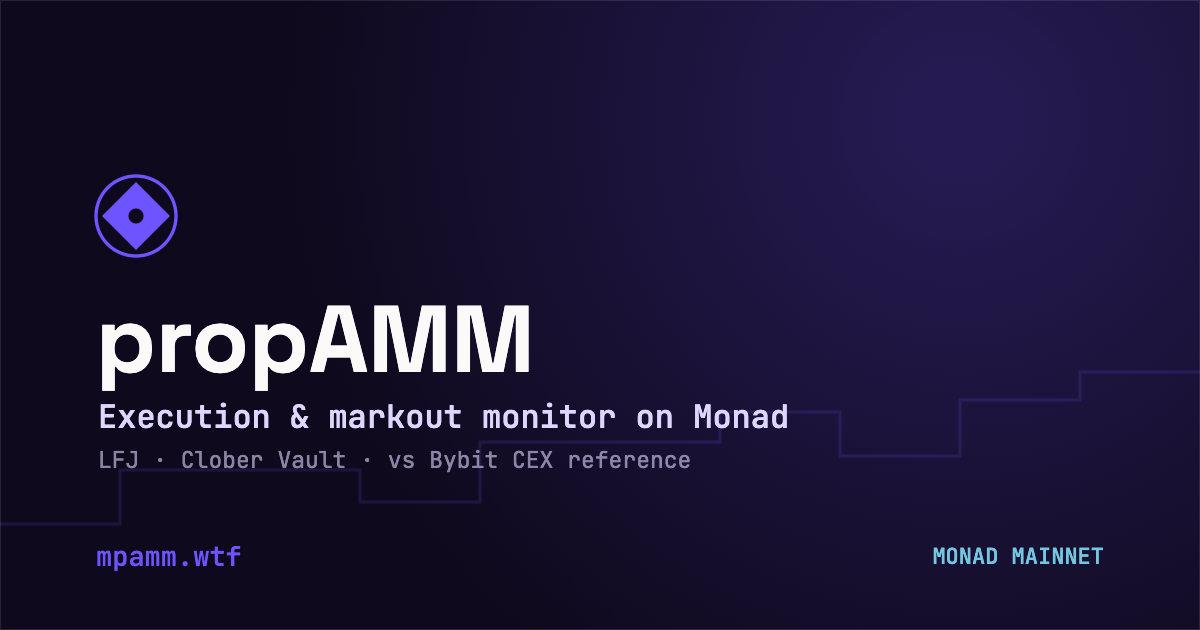
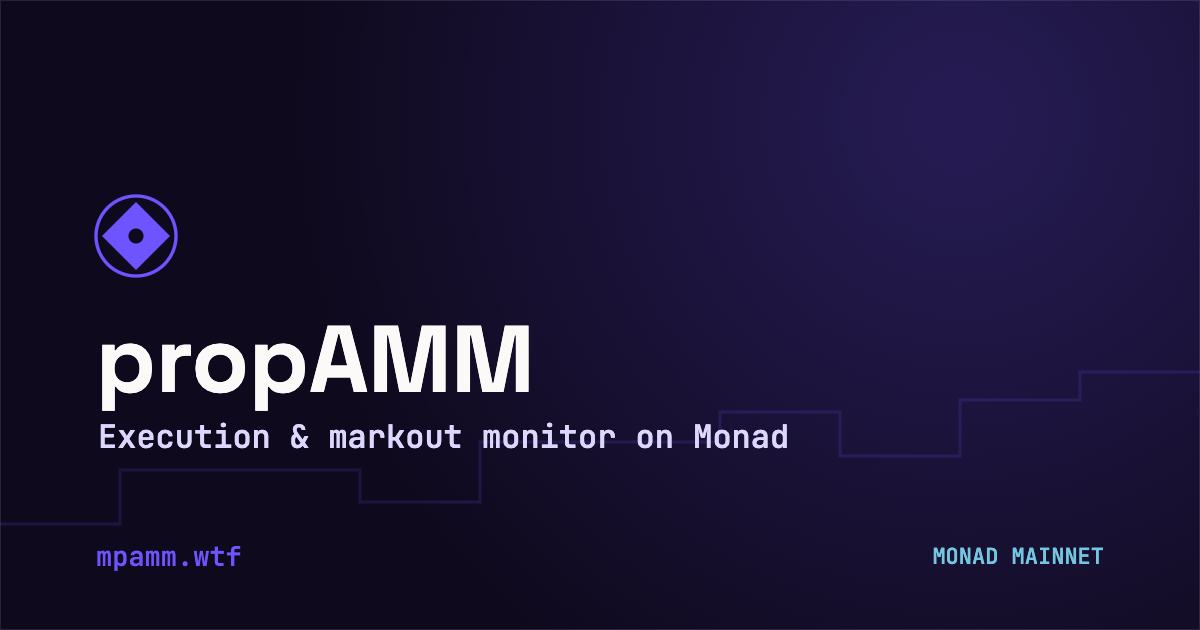
chore(seo): venue-agnostic description + share card
Reposition the description around "propAMM ecosystem on Monad" and drop
specific venue names (meta + OG + Twitter), and remove the
"LFJ · Clober Vault · vs Bybit" sub-line from og.png — venues may be added
or removed over time, so the share surfaces shouldn't hard-code them. Card
keeps the logomark, wordmark, tagline, mpamm.wtf and MONAD MAINNET.

Changed region(s): [[0.0617, 0.4825, 0.6783, 0.754], [0.0617, 0.2714, 0.1542, 0.4524]]

diff --git a/web/index.html b/web/index.html
@@ -4,7 +4,7 @@
     <meta charset="utf-8" />
     <meta name="viewport" content="width=device-width, initial-scale=1" />
     <title>propAMM · Monad — execution monitor</title>
-    <meta name="description" content="Live execution &amp; markout monitor for propAMM market-making on Monad — LFJ and the Clober vault vs the Bybit CEX reference: spreads, markouts, volume, P&amp;L." />
+    <meta name="description" content="propAMM ecosystem on Monad — a live monitor for on-chain execution quality: spreads, markouts, volume, and per-swap P&amp;L." />
     <link rel="canonical" href="https://mpamm.wtf/" />
     <meta name="theme-color" content="#6E54FF" />
     <link rel="icon" type="image/svg+xml" href="/favicon.svg" />
@@ -14,7 +14,7 @@
     <meta property="og:type" content="website" />
     <meta property="og:site_name" content="propAMM" />
     <meta property="og:title" content="propAMM · Monad execution monitor" />
-    <meta property="og:description" content="Live execution &amp; markout monitor for propAMM market-making on Monad — LFJ and the Clober vault vs the Bybit CEX reference." />
+    <meta property="og:description" content="propAMM ecosystem on Monad — a live monitor for on-chain execution quality: spreads, markouts, volume, and per-swap P&amp;L." />
     <meta property="og:url" content="https://mpamm.wtf/" />
     <meta property="og:image" content="https://mpamm.wtf/og.png" />
     <meta property="og:image:width" content="1200" />
@@ -24,7 +24,7 @@
     <!-- Twitter / X card -->
     <meta name="twitter:card" content="summary_large_image" />
     <meta name="twitter:title" content="propAMM · Monad execution monitor" />
-    <meta name="twitter:description" content="Live execution &amp; markout monitor for propAMM market-making on Monad — LFJ and the Clober vault vs the Bybit CEX reference." />
+    <meta name="twitter:description" content="propAMM ecosystem on Monad — a live monitor for on-chain execution quality: spreads, markouts, volume, and per-swap P&amp;L." />
     <meta name="twitter:image" content="https://mpamm.wtf/og.png" />
 
     <link rel="preconnect" href="https://fonts.googleapis.com" />